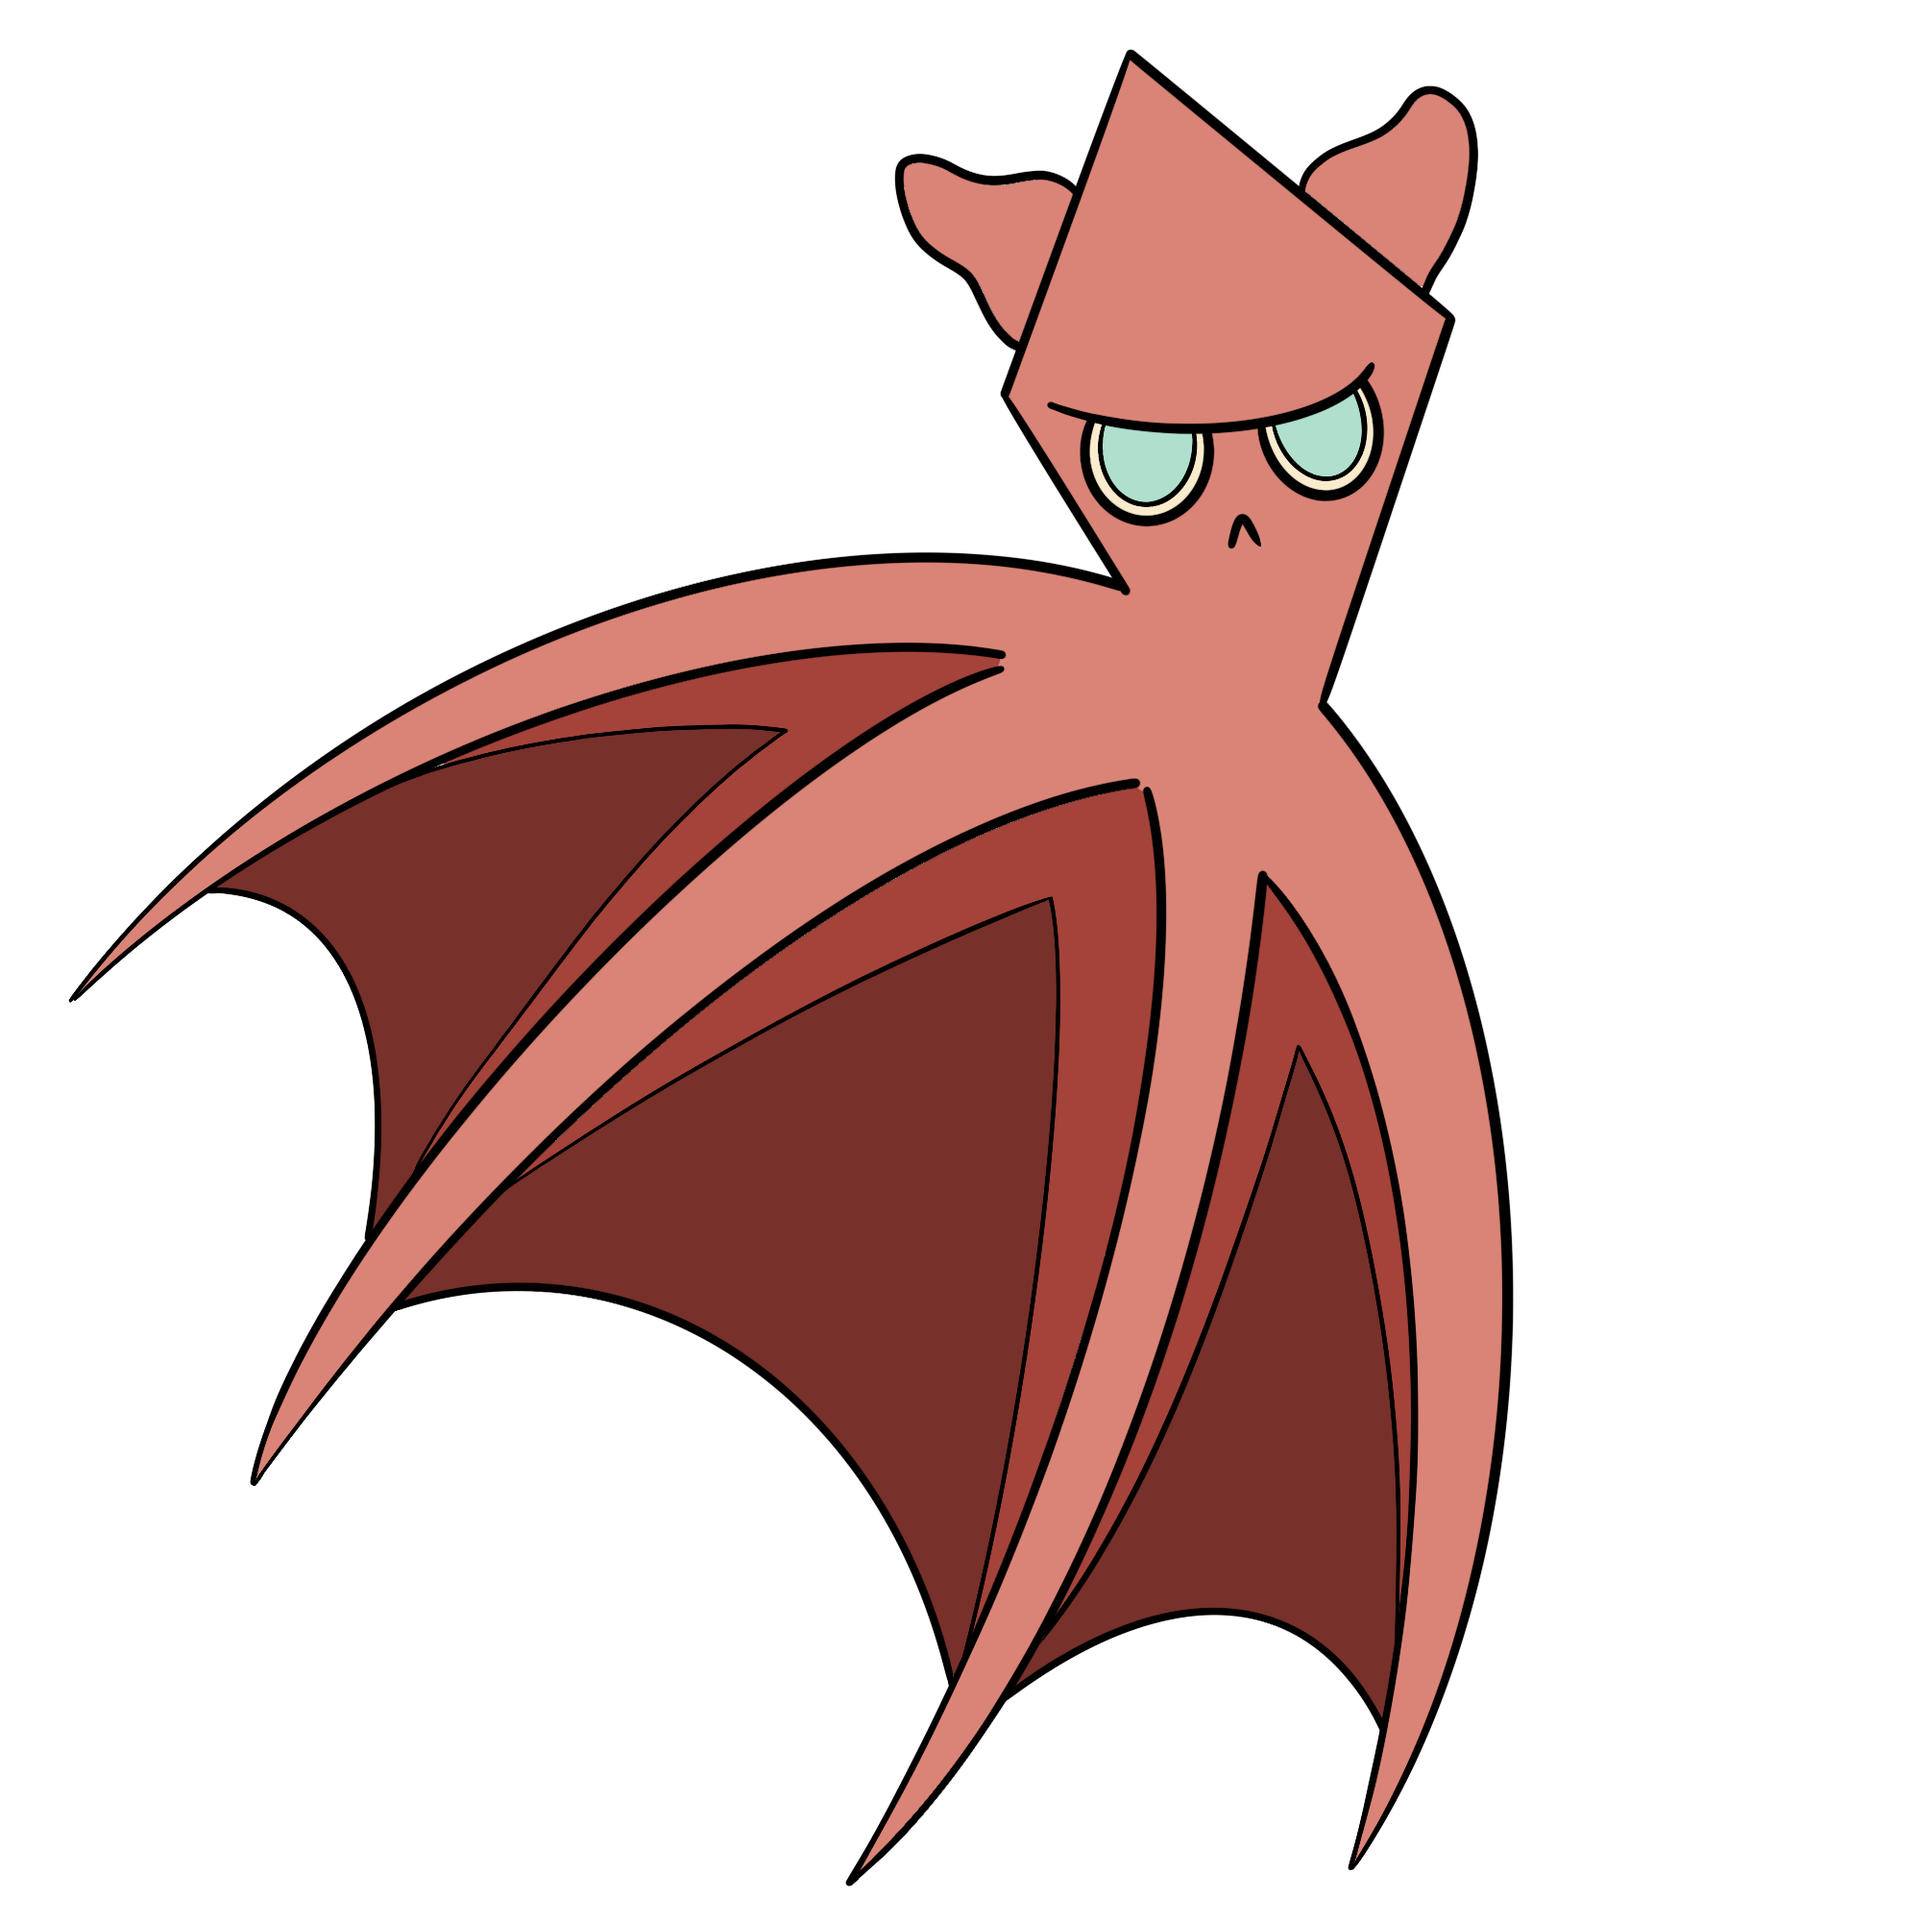
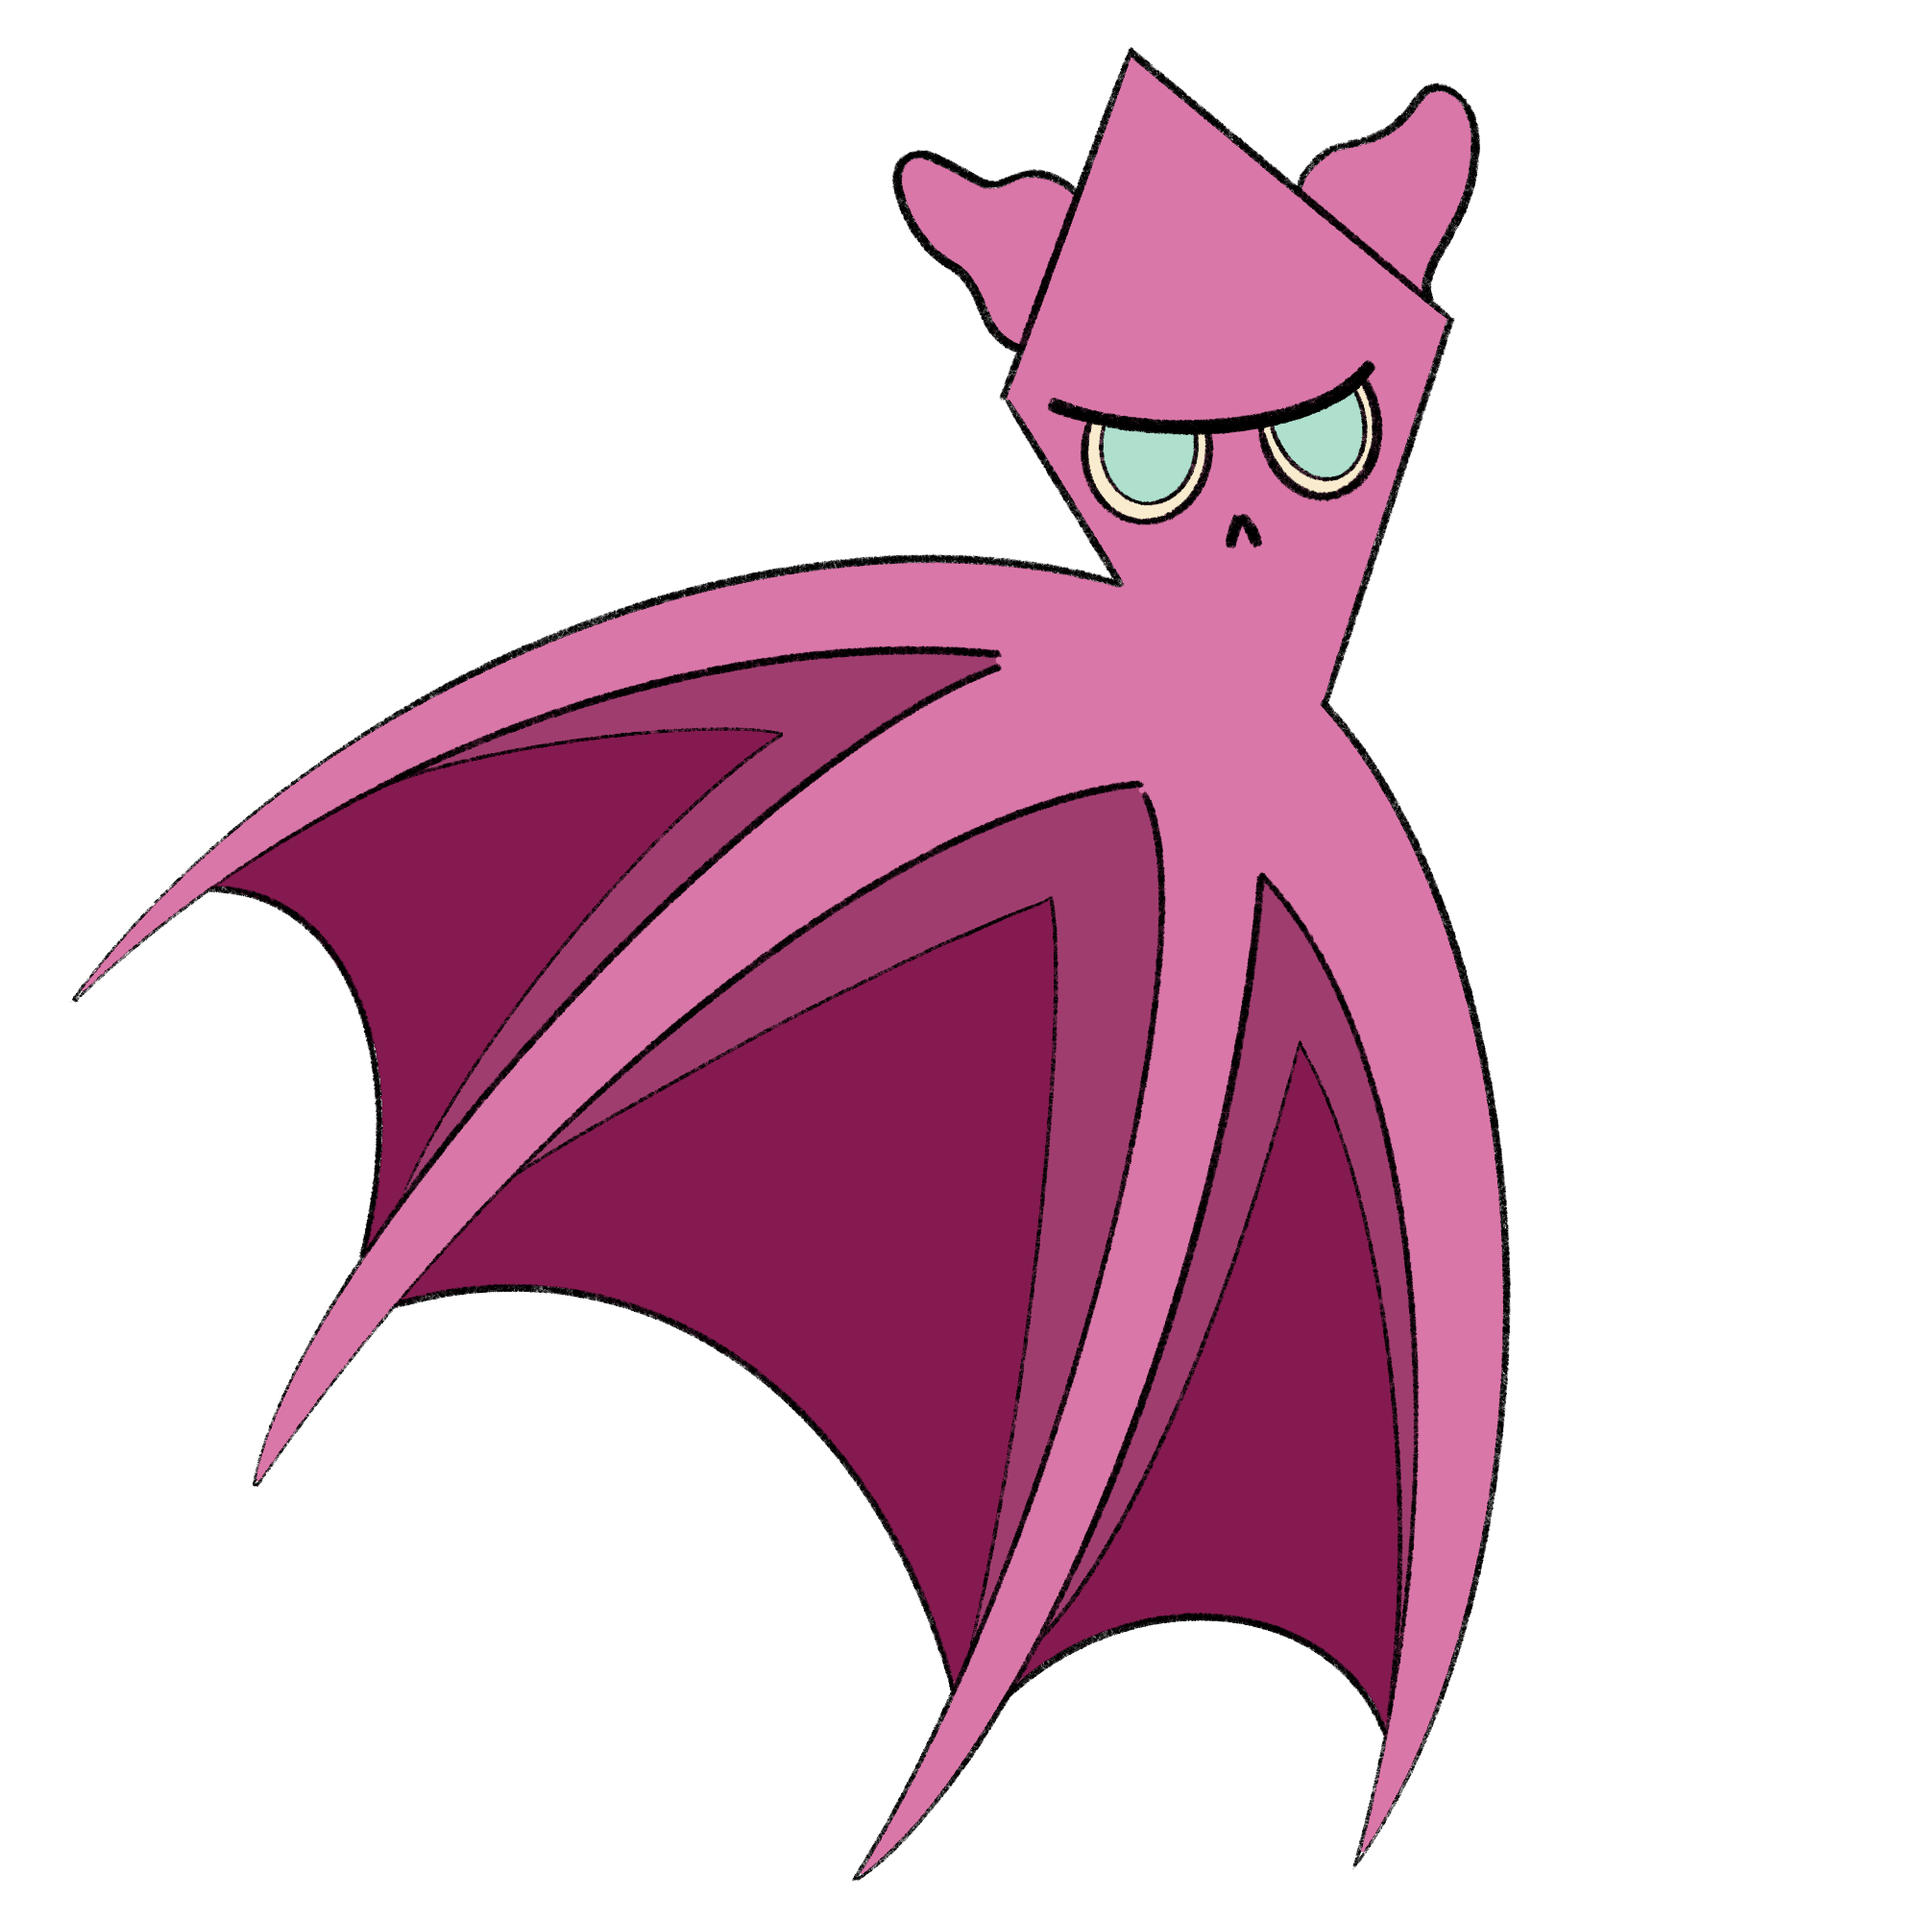
Enemies Animations

diff --git a/Assets/Scripts/Game/EnemyBehaviors/DashAttack.cs b/Assets/Scripts/Game/EnemyBehaviors/DashAttack.cs
@@ -18,6 +18,10 @@ public class DashAttack : MonoBehaviour
     public float maxSpeed = 2f;
     public float overshootAmount = 1f;
     public float maxRotationAngle = 15f;
+
+    [SerializeField] private SpriteRenderer enemySprite;
+    [SerializeField] private Sprite idleSprite;
+    [SerializeField] private Sprite swimSprite;
     
     Vector2 PlayerPosition => (Vector2)playerToTarget.transform.position;
 
@@ -44,24 +48,35 @@ public class DashAttack : MonoBehaviour
         float smoothTime = (1 / dashSpeed);
         float maxSpeed = this.maxSpeed * dashSpeed;
 
+        enemySprite.sprite = swimSprite;
+        
+        
         while (Vector2.Distance(_rb.position, _targetPos) > 0.05f)
         {
             // If we've hit the target position, move it up a bit so that we drift
             Vector2 targetPos = _targetPos;
             _rb.position = Vector2.SmoothDamp(_rb.position, targetPos, ref _playerVelocity, smoothTime, maxSpeed);
-            float rot = maxRotationAngle * Mathf.Clamp(_playerVelocity.x, -1, 1);
-            transform.rotation = Quaternion.Euler(0, 0, rot);
+
+            if(Vector2.Distance(_rb.position, _targetPos) < 0.5f)
+                enemySprite.sprite = idleSprite;
+            
             yield return null;
         }
 
+        enemySprite.sprite = idleSprite;
+        
         float waitForNextDashTimer = 0f;
-        //GetComponentInChildren<SpriteRenderer>().color = new Color(240, 250, 152);
+        
         while (waitForNextDashTimer < timeBetweenDashes)
         {
             Vector2 targetPos = _targetPos + new Vector2(0.05f, 0);
             _rb.position = Vector2.SmoothDamp(_rb.position, targetPos, ref _playerVelocity, smoothTime, maxSpeed);
-            float rot = maxRotationAngle * Mathf.Clamp(_playerVelocity.x, -1, 1);
-            transform.rotation = Quaternion.Euler(0, 0, rot);
+            
+            Vector3 vectorToTarget = (Vector3)targetPos - transform.position;
+            float angle = Mathf.Atan2(vectorToTarget.y, vectorToTarget.x) * Mathf.Rad2Deg;
+            Quaternion q = Quaternion.AngleAxis(angle, Vector3.forward);
+            transform.rotation = Quaternion.Slerp(transform.rotation, q, Time.deltaTime * 5f);
+            
             yield return null;
             waitForNextDashTimer += Time.deltaTime;
         }

diff --git a/Assets/Scripts/Game/EnemyBehaviors/SideToSide.cs b/Assets/Scripts/Game/EnemyBehaviors/SideToSide.cs
@@ -4,8 +4,12 @@ using Random = System.Random;
 public class SideToSide : MonoBehaviour
 {
     private float t = 0;
+    private float animationTimer = 0;
     [SerializeField] private Transform enemyBody;
-
+    [SerializeField] private SpriteRenderer enemySprite;
+    [SerializeField] private Sprite firstSwimSprite;
+    [SerializeField] private Sprite secondSwimSprite;
+    
     public float verticalSpeed = 1;
     public float horizontalSpeed = 1;
     public float horizontalRange = 1;
@@ -24,7 +28,10 @@ public class SideToSide : MonoBehaviour
         if (enemyBody != null)
         {
             t += Time.deltaTime * horizontalSpeed;
+            animationTimer += Time.deltaTime;
             enemyBody.position = new Vector3(transform.position.x + (Mathf.Cos(t) * horizontalRange), transform.position.y, transform.position.z);
+
+            enemyBody.localScale = new Vector3(Mathf.Abs(enemyBody.localScale.x) * Mathf.Sign(Mathf.Cos(t)), enemyBody.localScale.y, 1f);
         }
     }
 }
